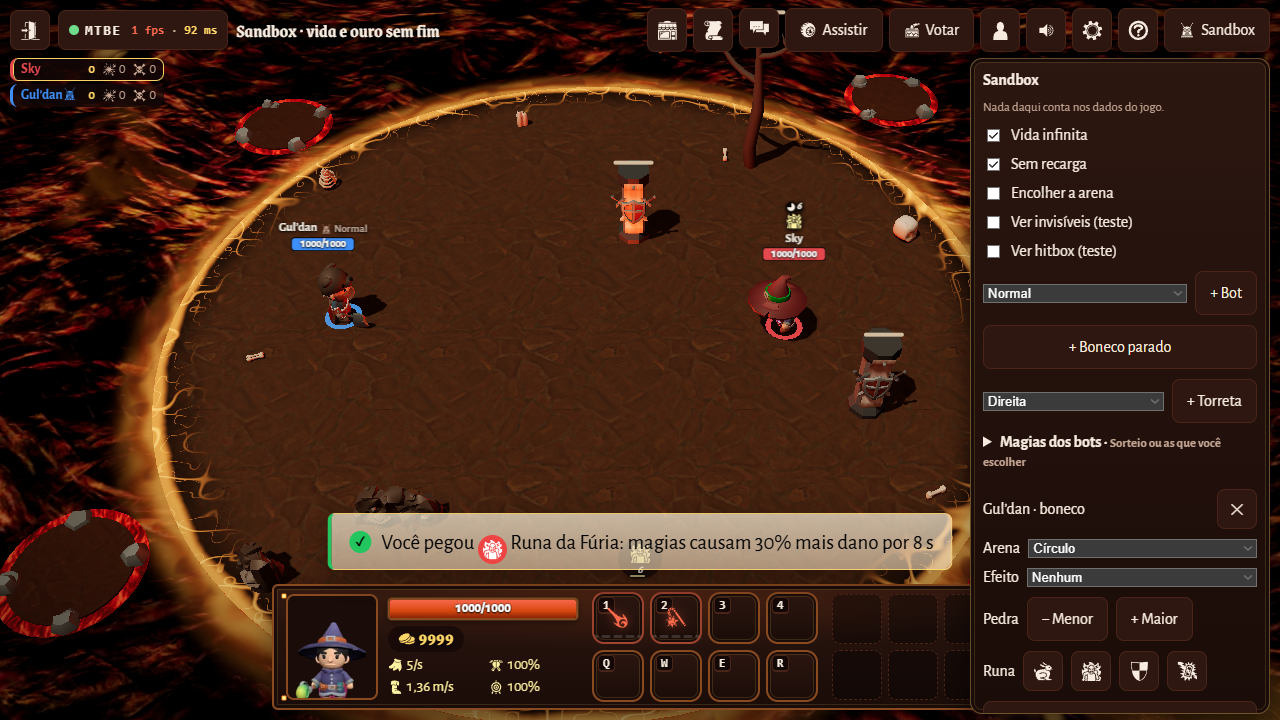
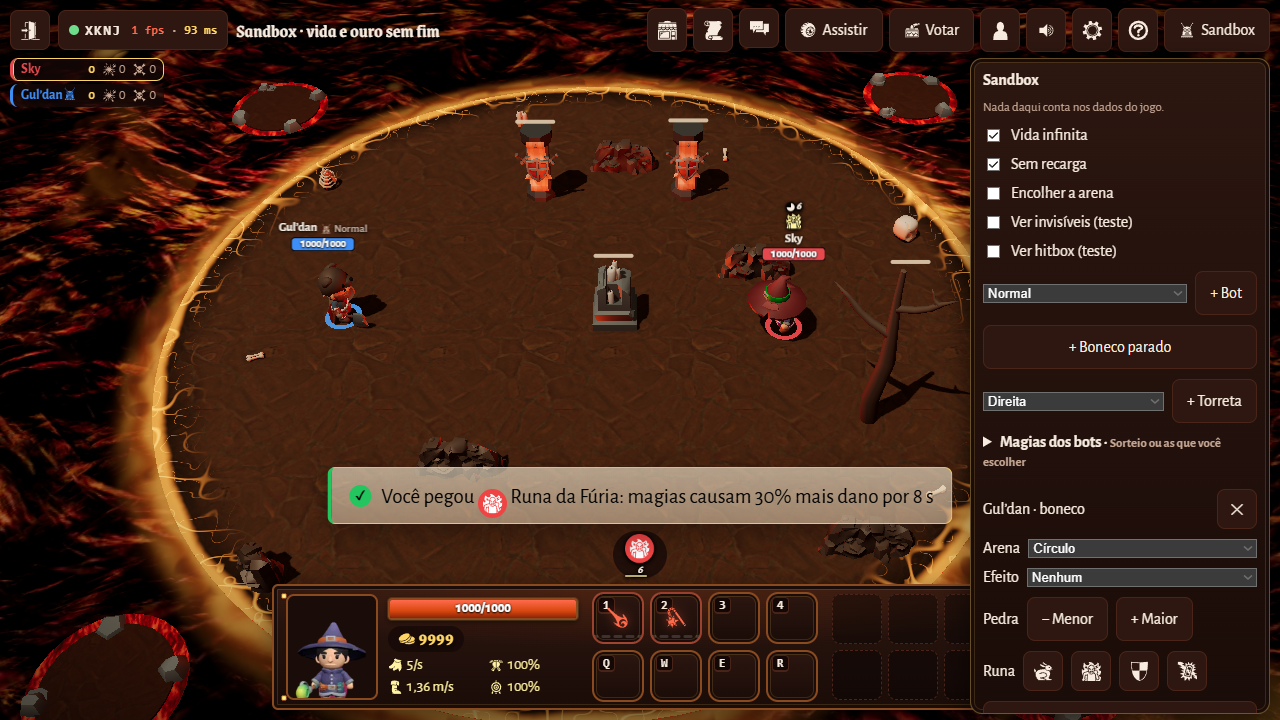
feat: ícones dos buffs no disco de cor do aviso
Buff da runa na cor da runa, os bons em verde e os ruins em vermelho, no
mesmo tamanho do ícone do aviso; o aviso sobe 8 px para seguir acima deles.

diff --git a/src/client/style.css b/src/client/style.css
@@ -184,6 +184,13 @@ button.kick:hover { background: rgba(255, 106, 77, .15); }
 .barwrap .hud-status { gap: 10px; padding: 3px 12px; border-radius: 999px; background: var(--panel-glass); }
 .hud-status:empty { display: none; }
 .barwrap .hud-status i { font-size: 1.3rem; position: relative; flex-direction: column; align-items: center; }
+/* ícone do buff num disco de cor, igual ao do aviso (1,3rem e .2em de borda): o aviso da runa vira este ícone (flyToast em ui.ts) */
+.barwrap .hud-status .gi { box-sizing: content-box; padding: .2em; border-radius: 50%; background: var(--toast-good); color: var(--ink); }
+.barwrap .hud-status i.bad .gi { background: var(--toast-bad); color: var(--white); }
+.barwrap .hud-status i[data-rune="haste"] .gi { background: var(--rune-haste); }
+.barwrap .hud-status i[data-rune="fury"] .gi { background: var(--rune-fury); color: var(--white); }
+.barwrap .hud-status i[data-rune="shield"] .gi { background: var(--rune-shield); }
+.barwrap .hud-status i[data-rune="recharge"] .gi { background: var(--rune-recharge); }
 /* duração do efeito: segundos embaixo do ícone e um filete que esvazia (--left vem de ui.ts) */
 .barwrap .hud-status i small { font-size: .5em; font-weight: 700; color: var(--fg); margin-top: 1px; }
 .barwrap .hud-status i small:empty { display: none; }
@@ -307,11 +314,11 @@ button.kick:hover { background: rgba(255, 106, 77, .15); }
 .wiz-label .hp-extra .rush { color: #ff9640; }
 
 /* letra 1,3x do tamanho normal, a mesma do aviso de quem saiu (PR #234), e fundo claro: o aviso aparece por poucos segundos no meio da partida e precisa ser lido de relance */
-#toast { position: fixed; left: 50%; bottom: calc(188px + var(--safe-b)); transform: translateX(-50%); background: var(--paper); color: var(--ink); border: 1px solid var(--gold-toast); box-shadow: var(--shadow-toast); padding: 13px 18px; border-radius: var(--r-sm); font-size: 1.3rem; opacity: 0; transition: opacity .2s; pointer-events: none; max-width: calc(100% - 32px); overflow-wrap: anywhere; z-index: 20; user-select: text; }
+#toast { position: fixed; left: 50%; bottom: calc(196px + var(--safe-b)); transform: translateX(-50%); background: var(--paper); color: var(--ink); border: 1px solid var(--gold-toast); box-shadow: var(--shadow-toast); padding: 13px 18px; border-radius: var(--r-sm); font-size: 1.3rem; opacity: 0; transition: opacity .2s; pointer-events: none; max-width: calc(100% - 32px); overflow-wrap: anywhere; z-index: 20; user-select: text; }
 #toast.show { opacity: 1; pointer-events: auto; }
-/* o aviso fica acima dos ícones dos buffs ativos (.hud-status, 44 px acima da barra), com 8 px de folga, para não tapá-los (issue #262);
+/* o aviso fica acima dos ícones dos buffs ativos (.hud-status, 52 px acima da barra desde que o ícone ganhou o disco do aviso), com 8 px de folga, para não tapá-los (issue #262);
    acima de 800 px de altura a barra de baixo tem 160 px + 10 de margem em vez de 118 + 10, então o aviso sobe junto */
-@media (min-width: 601px) and (min-height: 801px) { #toast { bottom: calc(222px + var(--safe-b)); } }
+@media (min-width: 601px) and (min-height: 801px) { #toast { bottom: calc(230px + var(--safe-b)); } }
 /* com uma loja aberta o clique atravessa o aviso: ele fica por cima da última fileira de cartas e tapava a compra (issue #208) */
 body:has(.center .shop, .peek-shop:not([hidden]) .shop) #toast { pointer-events: none; }
 body.in-room::after { content: ''; position: fixed; inset: 0; pointer-events: none; background: radial-gradient(ellipse at 50% 50%, transparent 55%, rgba(0, 0, 0, .55) 100%); z-index: 1; }

diff --git a/src/client/ui.ts b/src/client/ui.ts
@@ -1834,7 +1834,9 @@ export function createRoomUi(root: HTMLElement, code: string, act: RoomActions) 
         statusRow.replaceChildren(...STATUS_ICONS.filter(([bit]) => status & bit).map(([bit, ico, name]) => {
           const s = el('small', { 'aria-hidden': 'true' });
           fxCells.set(bit, s);
-          return el('i', { class: BAD_STATUS.includes(bit) ? 'bad' : 'good', title: name, role: 'img', 'aria-label': name }, icon(ico), s);
+          // data-rune: o disco do buff na cor da runa, o mesmo do aviso (style.css)
+          const rune = RUNE_KINDS.find((k) => RUNE_ICON[k] === ico);
+          return el('i', { class: BAD_STATUS.includes(bit) ? 'bad' : 'good', title: name, role: 'img', 'aria-label': name, ...(rune ? { 'data-rune': rune } : {}) }, icon(ico), s);
         }));
       }
       // segundos que faltam de cada efeito com prazo e o filete que esvazia (--left: fração que falta, como a recarga)
